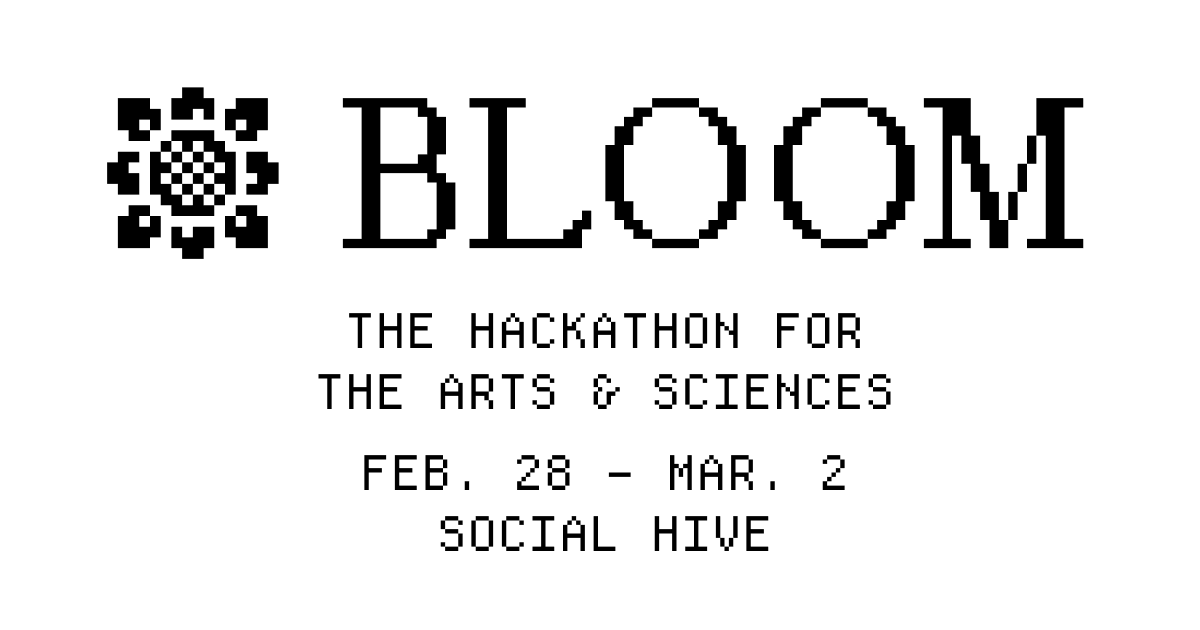
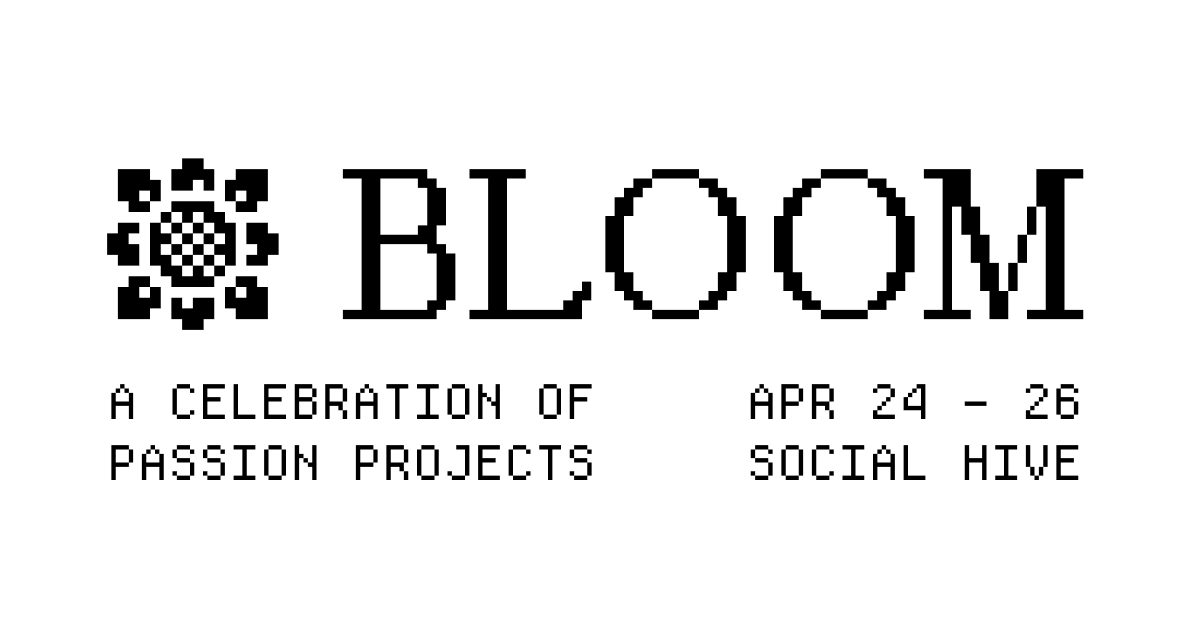
Fix OG image & desc (#21)

diff --git a/app/layout.tsx b/app/layout.tsx
@@ -34,14 +34,15 @@ const DepartureMono = localFont({
 })
 
 let metadataBase: URL
-if (process.env.VERCEL_URL) metadataBase = new URL("https://bloom.build")
+if (process.env.VERCEL_URL)
+  metadataBase = new URL("https://bloom.compsigh.club")
 else metadataBase = new URL(`http://localhost:${process.env.PORT || 3000}`)
 
 export const metadata: Metadata = {
   metadataBase,
   title: "BLOOM",
   description:
-    "The Spring 2025 hackathon for the arts & sciences, hosted by compsigh — the social computer science club at the University of San Francisco for meeting cool people & building cool things",
+    "A Spring celebration of passion projects, hosted by compsigh, the social computer science club at the University of San Francisco for meeting cool people && building cool things",
   icons: {
     icon: [
       {

diff --git a/app/2025/layout.tsx b/app/2025/layout.tsx
@@ -1,4 +1,12 @@
+import type { Metadata } from "next"
+
 import "./globals.css"
+
+export const metadata: Metadata = {
+  openGraph: {
+    images: "/og-2025.png"
+  }
+}
 
 export default function Layout({ children }: { children: React.ReactNode }) {
   return children
